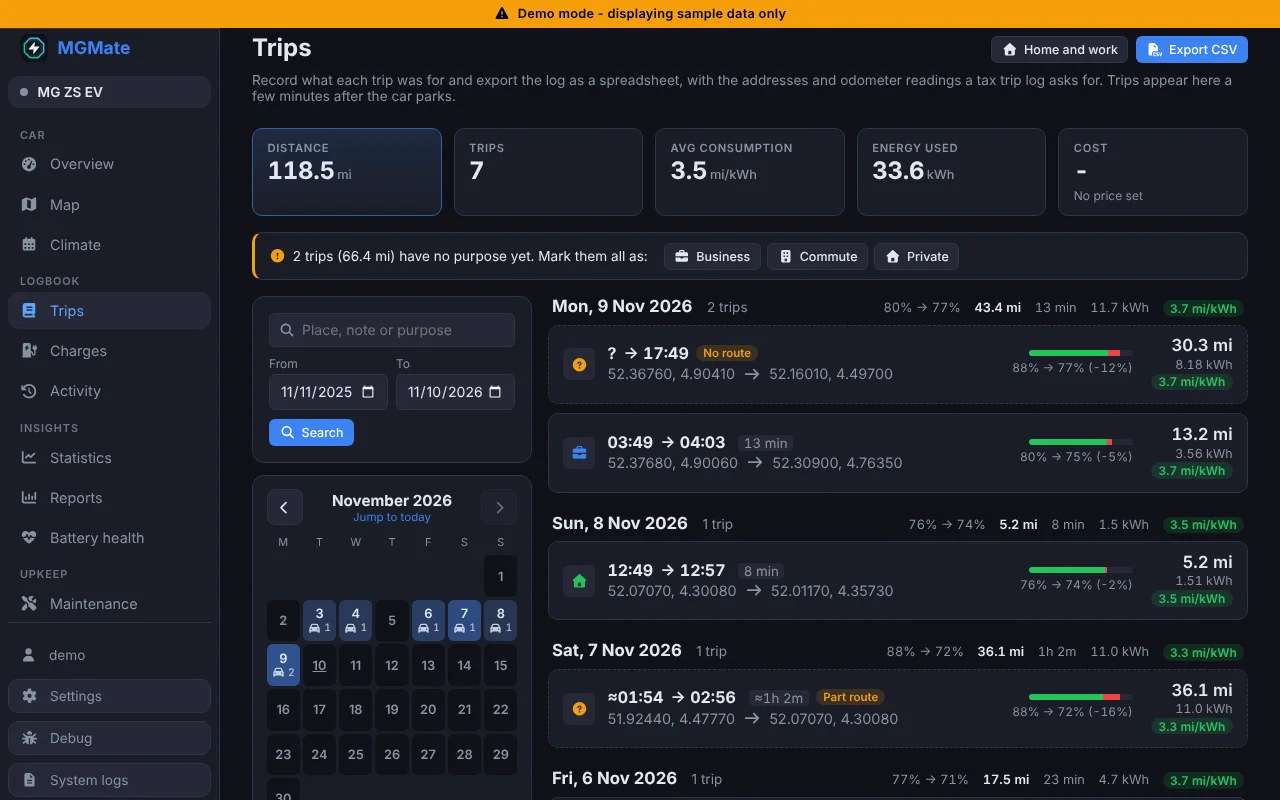
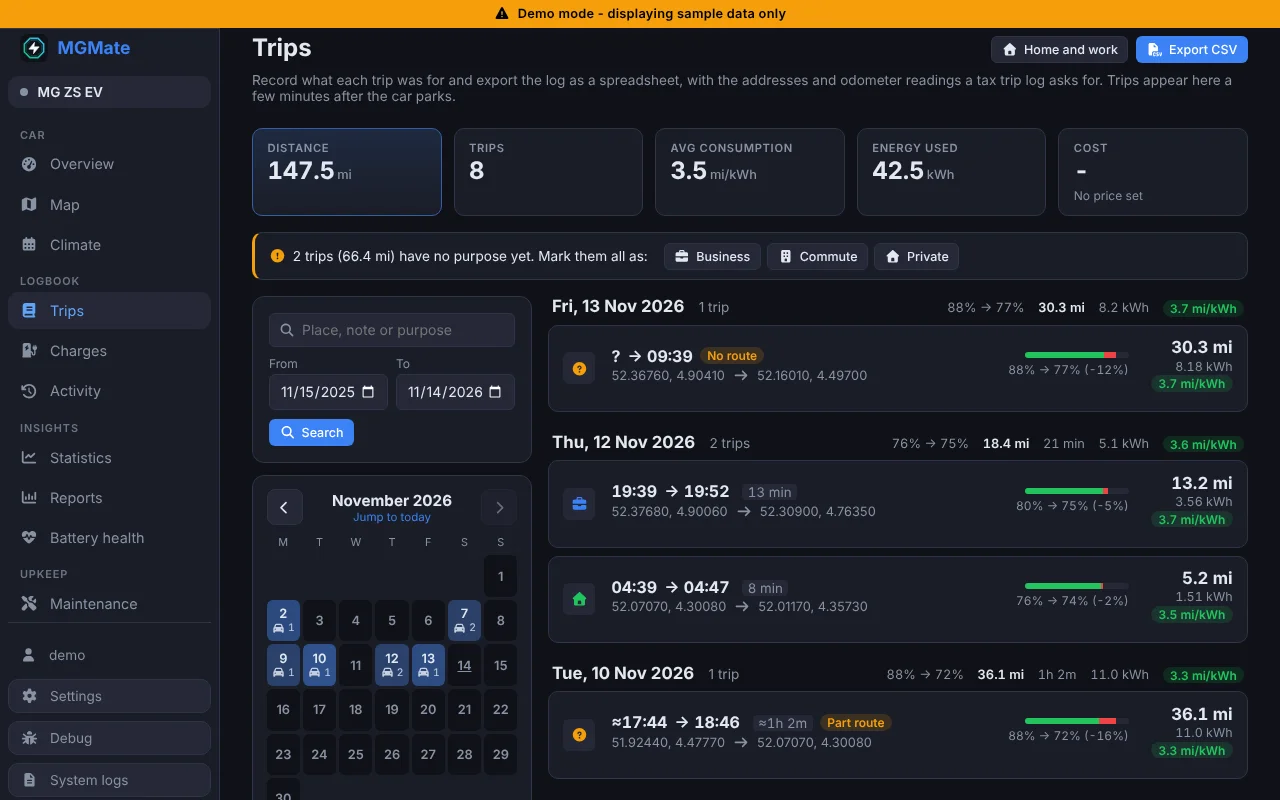
Trips on a phone: four totals as a block, each day one card of trip rows (#49)
On a phone the Trips page starts with the week strip, then the totals as a
block of four with a note each (longest trip, average length, best
consumption, cost at the home rate), and each day's trips are rows in one
card with the battery used as a bar. A No route or Part route trip carries
its label on the battery line. Wide screens are unchanged.

Claude-Session: https://claude.ai/code/session_01JCP7VXYhdJUTi5nftAu1j6

diff --git a/frontend/src/views/TripLogView.vue b/frontend/src/views/TripLogView.vue
@@ -26,6 +26,7 @@ import { formatDurationMs } from '@/utils/tripRows'
 import type { Measure } from '@/utils/units'
 import { useUnits } from '@/composables/useUnits'
 import { useErrorMessage } from '@/composables/useErrorMessage'
+import { useMediaQuery } from '@/composables/useMediaQuery'
 import { useTripRoute } from '@/composables/useTripRoute'
 import ViewHeader from '@/components/ViewHeader.vue'
 import StatTile from '@/components/StatTile.vue'
@@ -288,48 +289,81 @@ function efficiencyOf(totals: Totals) {
 
 const monthTotals = computed(() => totalsOf(listed.value))
 
+// On a phone the totals stand as a block of four, so each says a little more and the cost sits
+// under the energy it prices.
+const isPhone = useMediaQuery('(width <= 767px)')
+
+const tripExtremes = computed(() => {
+  let longestKm = 0
+  let bestWhPerKm: number | null = null
+  for (const e of listed.value) {
+    if (e.isHidden) continue
+    const km = loggedDistanceKm(e) ?? 0
+    longestKm = Math.max(longestKm, km)
+    const energy = energyOf(e)
+    // A hop round the corner says nothing about how the car does.
+    const wh = energy?.whPerKm ?? null
+    if (wh !== null && wh > 0 && km >= 2 && (bestWhPerKm === null || wh < bestWhPerKm))
+      bestWhPerKm = wh
+  }
+  return { longestKm, bestWhPerKm }
+})
+
 const tiles = computed(() => {
   const m = monthTotals.value
   const distance = units.value.measure('distance', m.km, { decimals: 1 })
   const efficiency = efficiencyOf(m)
   const rate = homeRate.value
-  return [
+  const phone = isPhone.value
+  const { longestKm, bestWhPerKm } = tripExtremes.value
+  const cost = rate !== null && m.kwh > 0 ? money(m.kwh * rate) : null
+  const all = [
     {
       key: 'distance',
       value: distance?.value ?? '-',
       unit: distance?.unit,
       label: t('tripLog.tiles.distance'),
-      note: null,
+      note:
+        phone && m.trips > 1 && longestKm > 0
+          ? t('tripLog.tiles.longest', { distance: units.value.format('distance', longestKm) })
+          : null,
     },
     {
       key: 'trips',
       value: String(m.trips),
       unit: undefined,
       label: t('tripLog.tiles.trips'),
-      note: null,
+      note:
+        phone && m.trips > 1
+          ? t('tripLog.tiles.average', { distance: units.value.format('distance', m.km / m.trips) })
+          : null,
     },
     {
       key: 'efficiency',
       value: efficiency?.value ?? '-',
       unit: efficiency?.unit,
       label: t('tripLog.tiles.efficiency'),
-      note: null,
+      note:
+        phone && bestWhPerKm !== null
+          ? t('tripLog.tiles.best', { value: units.value.format('energyPerDistance', bestWhPerKm) })
+          : null,
     },
     {
       key: 'energy',
       value: m.kwh > 0 ? formatNumber(m.kwh, 1) : '-',
       unit: m.kwh > 0 ? t('common.kwh') : undefined,
       label: t('tripLog.tiles.energy'),
-      note: null,
+      note: phone && cost !== null ? t('tripLog.tiles.costNote', { cost }) : null,
     },
     {
       key: 'cost',
-      value: rate !== null && m.kwh > 0 ? money(m.kwh * rate) : '-',
+      value: cost ?? '-',
       unit: undefined,
       label: t('tripLog.tiles.cost'),
       note: rate === null ? t('tripLog.tiles.noPrice') : null,
     },
   ]
+  return phone ? all.filter((tile) => tile.key !== 'cost') : all
 })
 
 const days = computed(() => groupByDay(newestFirst.value, (e) => e.startedAt))
@@ -515,7 +549,7 @@ function exportCsv() {
 </script>
 
 <template>
-  <div class="view-container">
+  <div class="view-container trips-page">
     <ViewHeader :title="t('tripLog.title')" :subtitle="t('tripLog.subtitle')">
       <template #actions>
         <button type="button" class="btn btn-outline-secondary btn-sm" @click="openPlaces()">

diff --git a/frontend/src/assets/tripLog.css b/frontend/src/assets/tripLog.css
@@ -253,6 +253,11 @@
   font-size: 0.72rem;
 }
 
+/* The same label on the battery line, where a phone shows it. */
+.ll-pill.trip-log-item__flag {
+  display: none;
+}
+
 /* Edited route and notes, as icons only: the detail names them. */
 .trip-log-item__mark {
   flex: none;
@@ -709,4 +714,119 @@
   top: 0;
   z-index: 2;
   flex-shrink: 0;
+}
+
+/* ── Phone: the week, four totals, then a card per day ────── */
+
+@media (width <= 767px) {
+  .trips-page {
+    display: flex;
+    flex-direction: column;
+  }
+
+  .trips-page > .view-header,
+  .trips-page > .view-subtitle {
+    order: -2;
+  }
+
+  .trips-page > .week-strip {
+    order: -1;
+  }
+
+  /* The totals stand as a block of four in place of a strip to swipe. */
+  .trips-page > .stat-tiles {
+    display: grid;
+    grid-template-columns: repeat(2, minmax(0, 1fr));
+    margin-inline: 0;
+    padding-inline: 0;
+    overflow: visible;
+  }
+
+  .trips-page > .stat-tiles .stat-tile {
+    flex: none;
+  }
+
+  /* A day is one card and its trips are rows in it. */
+  .trips-page .trip-log-list {
+    gap: 0;
+    border: 1px solid var(--color-border);
+    border-radius: var(--radius);
+    background: var(--color-surface);
+    box-shadow: var(--shadow-card);
+    overflow: hidden;
+  }
+
+  .trips-page .trip-log-item {
+    border: 0;
+    border-radius: 0;
+    background: none;
+    box-shadow: none;
+  }
+
+  .trips-page .trip-log-item + .trip-log-item {
+    border-top: 1px solid var(--color-border);
+  }
+
+  .trips-page .trip-log-item--no-route + .trip-log-item,
+  .trips-page .trip-log-item + .trip-log-item--no-route {
+    border-top-style: dashed;
+  }
+
+  /* The battery the trip used, on a line of its own under the places. */
+  .trips-page .trip-log-item .ll-row {
+    grid-template:
+      'lead main figures' auto
+      '.    soc  soc' auto / auto minmax(0, 1fr) auto;
+    gap: 0.35rem 0.75rem;
+  }
+
+  .trips-page .trip-log-item .ll-row__lead {
+    grid-area: lead;
+  }
+
+  .trips-page .trip-log-item .ll-row__main {
+    grid-area: main;
+  }
+
+  .trips-page .trip-log-item .ll-row__figures {
+    grid-area: figures;
+    min-width: 0;
+  }
+
+  .trips-page .trip-log-item .ll-row__soc {
+    grid-area: soc;
+    display: flex;
+    flex-direction: row;
+    align-items: center;
+    gap: 0.6rem;
+    min-width: 0;
+    white-space: nowrap;
+  }
+
+  .trips-page .trip-log-item .ll-row__soc .soc-bar {
+    flex: 0 0 5rem;
+  }
+
+  .trips-page .trip-log-item__no-route {
+    display: none;
+  }
+
+  .trips-page .ll-pill.trip-log-item__flag {
+    display: inline-flex;
+    margin-left: auto;
+    font-size: 0.72rem;
+  }
+
+  /* The distance and what it cost per mile say it; the kWh is in the detail. */
+  .trips-page .trip-log-item .ll-row__figures .ll-row__small {
+    display: none;
+  }
+}
+
+@media (width <= 767px) {
+  @container (width < 26rem) {
+    .trips-page .trip-log-item__end-time {
+      display: inline;
+    }
+  }
 }

diff --git a/frontend/src/views/__tests__/TripLogView.spec.ts b/frontend/src/views/__tests__/TripLogView.spec.ts
@@ -300,4 +300,29 @@ describe('TripLogView', () => {
     await pickTrip(wrapper, 1)
     expect(wrapper.find('.trip-log-detail').exists()).toBe(false)
   })
+
+  it('shows five totals in a row on a wide screen, with the cost as its own', async () => {
+    const wrapper = await mountView()
+
+    const labels = wrapper.findAll('.stat-tiles .stat-tile').map((tile) => tile.text())
+    expect(labels).toHaveLength(5)
+    expect(wrapper.find('.stat-tiles').text()).toContain('Cost')
+    expect(wrapper.find('.stat-tiles').text()).not.toContain('longest')
+  })
+
+  it('shows four totals on a phone, each with a note of its own', async () => {
+    vi.stubGlobal('matchMedia', (query: string) => ({
+      matches: query === '(width <= 767px)',
+      addEventListener: () => {},
+      removeEventListener: () => {},
+    }))
+    const wrapper = await mountView()
+
+    const tiles = wrapper.findAll('.stat-tiles .stat-tile')
+    expect(tiles).toHaveLength(4)
+    const text = wrapper.find('.stat-tiles').text()
+    expect(text).toContain('longest')
+    expect(text).toContain('avg')
+    expect(text).not.toContain('Cost')
+  })
 })

diff --git a/frontend/src/components/TripLogItem.vue b/frontend/src/components/TripLogItem.vue
@@ -190,6 +190,13 @@ const purposeTitle = computed(() => {
       <span class="ll-row__soc">
         <SocBar :start="entry.socStartPercent ?? null" :end="entry.socEndPercent ?? null" />
         <span v-if="socLabel">{{ socLabel }}</span>
+        <!-- On a phone the first line has no room for it beside the times. -->
+        <span
+          v-if="noRoute || partRoute"
+          class="ll-pill ll-pill--warn trip-log-item__flag"
+          :title="noRoute ? t('tripLog.noRouteHint') : t('tripLog.partRouteHint')"
+          >{{ noRoute ? t('tripLog.noRoute') : t('tripLog.partRoute') }}</span
+        >
       </span>
 
       <span class="ll-row__figures">

diff --git a/frontend/src/components/__tests__/TripLogItem.spec.ts b/frontend/src/components/__tests__/TripLogItem.spec.ts
@@ -88,6 +88,8 @@ describe('TripLogItem', () => {
 
     expect(wrapper.find('.trip-log-item--no-route').exists()).toBe(true)
     expect(wrapper.find('.trip-log-item__no-route').text()).toBe('Part route')
+    // The same label again on the battery line, which is where a phone shows it.
+    expect(wrapper.find('.trip-log-item__flag').text()).toBe('Part route')
     expect(wrapper.find('.trip-log-item__duration').text()).toBe('≈34 min')
     expect(wrapper.find('.trip-log-item__when').text()).toMatch(/^≈\d/)
   })

diff --git a/README.md b/README.md
@@ -85,7 +85,7 @@ The bell opens the notifications, grouped by day. On a phone they fill the scree
 
 | Overview | Charging | Trips | Charges | Charges while charging |
 | -------- | -------- | ----- | ------- | ---------------------- |
-| <img src="documentation/screenshots/mobile-dashboard.webp" alt="The overview on a phone: the car from above with its status list and tyre pressures, the range, and the four controls in one row" width="200"> | <img src="documentation/screenshots/mobile-dashboard-charging.webp" alt="The overview on a phone while charging: the open window, the boot and the cable numbered on the car and in the list, and the range card with the charging power and time left" width="200"> | <img src="documentation/screenshots/mobile-trips.webp" alt="Trips on a phone, with a week strip and the day's trips" width="200"> | <img src="documentation/screenshots/mobile-charges.webp" alt="Charges on a phone: the week strip, four totals and the charges of the last 30 days" width="200"> | <img src="documentation/screenshots/mobile-charges-charging.webp" alt="Charges on a phone while the car charges: the level in a ring against the target, the power, the time left, a Stop charging button and a chart of this charge" width="200"> |
+| <img src="documentation/screenshots/mobile-dashboard.webp" alt="The overview on a phone: the car from above with its status list and tyre pressures, the range, and the four controls in one row" width="200"> | <img src="documentation/screenshots/mobile-dashboard-charging.webp" alt="The overview on a phone while charging: the open window, the boot and the cable numbered on the car and in the list, and the range card with the charging power and time left" width="200"> | <img src="documentation/screenshots/mobile-trips.webp" alt="Trips on a phone: the week strip, four totals, and each day as one card with a row per trip and the battery it used" width="200"> | <img src="documentation/screenshots/mobile-charges.webp" alt="Charges on a phone: the week strip, four totals and the charges of the last 30 days" width="200"> | <img src="documentation/screenshots/mobile-charges-charging.webp" alt="Charges on a phone while the car charges: the level in a ring against the target, the power, the time left, a Stop charging button and a chart of this charge" width="200"> |
 | **Reports** | **Battery health** | **Settings** | **Debug** |
 | <img src="documentation/screenshots/mobile-reports.webp" alt="Reports on a phone" width="200"> | <img src="documentation/screenshots/mobile-battery-health.webp" alt="Battery health on a phone" width="200"> | <img src="documentation/screenshots/mobile-settings.webp" alt="Settings on a phone" width="200"> | <img src="documentation/screenshots/mobile-debug.webp" alt="The Debug page on a phone" width="200"> |
 
@@ -503,7 +503,7 @@ Note: "keys left in the car" is not currently supported because the SAIC MQTT ga
 
 ## Trip log
 
-**Trip log** in the sidebar lists the saved trips for a month or a whole year. For each trip it shows the date and times, the addresses it left from and arrived at, and the odometer at either end.
+**Trip log** in the sidebar lists the saved trips for a month or a whole year. For each trip it shows the date and times, the addresses it left from and arrived at, and the odometer at either end. **On a phone** the page starts with the week strip, then four totals as a block (distance with the longest trip, the number of trips with their average length, consumption with the best trip, and the energy used with what it cost at your home rate), and each day is one card with a row per trip: its times and duration, where it left from and arrived, the distance and consumption, and the battery it used as a bar. A *No route* or *Part route* trip carries its label on the battery line.
 
 - **Purpose.** Mark a trip as business, commute or private. Choosing the same purpose again clears it. When trips in the period have no purpose yet, one button gives them all the same one; trips that already have a purpose keep it.
 - **Home and work.** Set your home and work places once (**Home and work** at the top, or click a trip's start or end address to use it). A car has one home and can have several work places. Every trip between home and a work place is marked as a commute: the trips already in the log, and each new one as soon as it is saved. A trip counts as ending at a place when it ends within its radius (250 m unless you change it), so parking down the street or in the office garage still counts. Trips you classified yourself, or deliberately left unclassified, are never changed; an automatic commute shows "Automatic", and choosing another purpose overrides it. Moving or removing a place updates the automatic ones. Business and private stay yours to choose. The places are kept per car in MGMate's own database.
